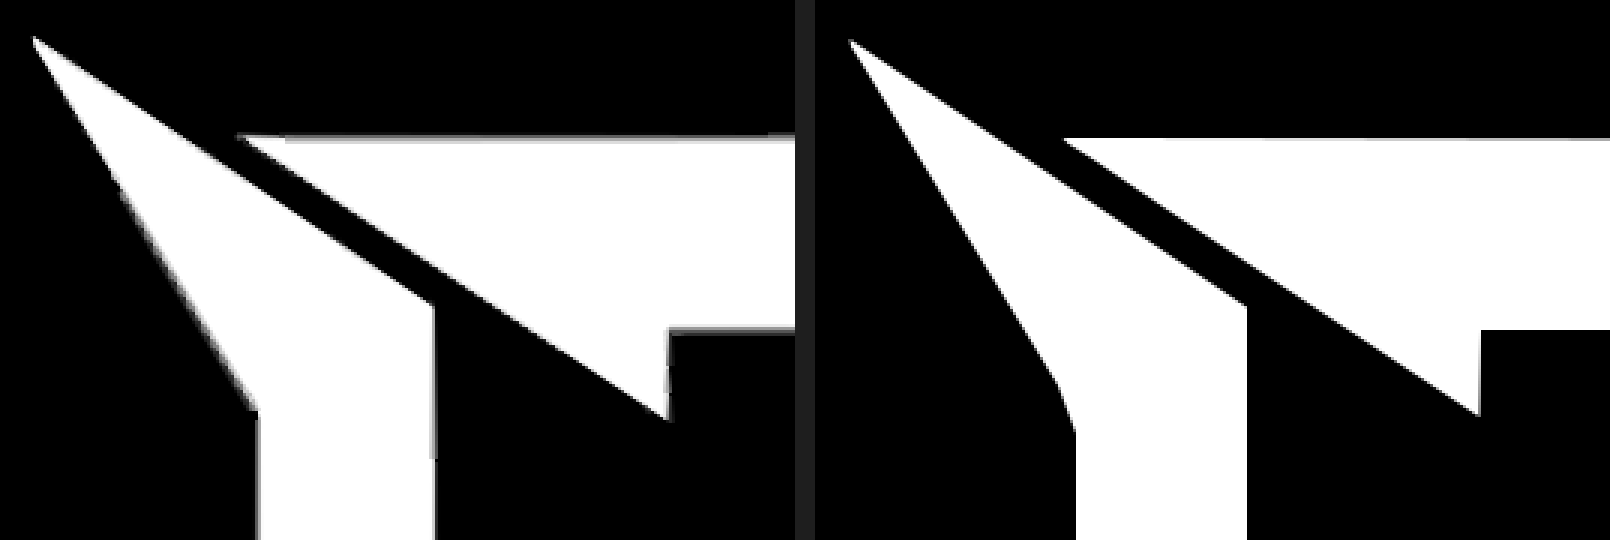
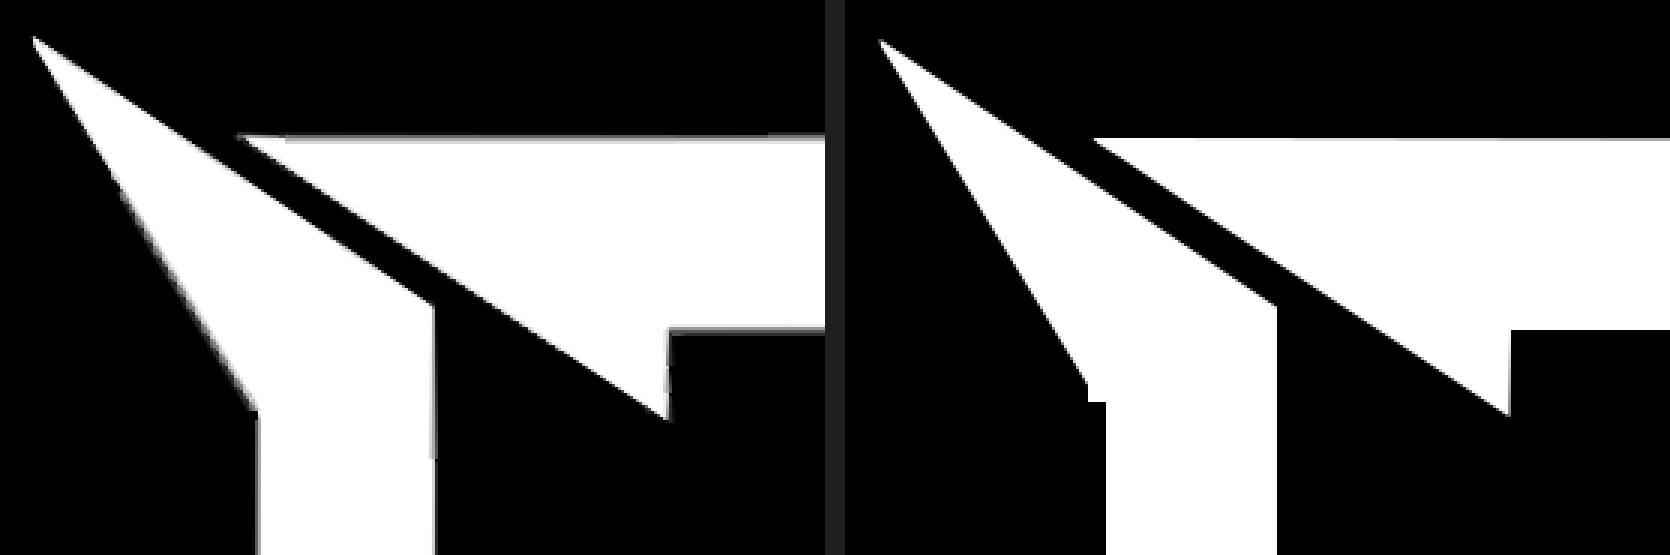
0.6.0：启用新图标（三 L 刃口标志，自适应图标）

diff --git a/README.md b/README.md
@@ -13,6 +13,10 @@ Holy shit I don't know How to continue so it's short
 - **Accounts removed**: user registration, password login and the user-management pages are gone from both the app and the server. API key cards stay exactly where they were.
 - **Smaller APK**: release builds now run R8 and resource shrinking.
 
+## 0.6.0
+
+- New launcher icon: the three-L mark, white on black (adaptive icon, 108dp foreground).
+
 ## 0.5.3
 
 - Second factor: the TOTP secret no longer disappears right after "Enable TOTP". It stays on screen (tap to copy), the otpauth link is shown too, and the copy stored in the connection profile is shown when you come back to the page.
